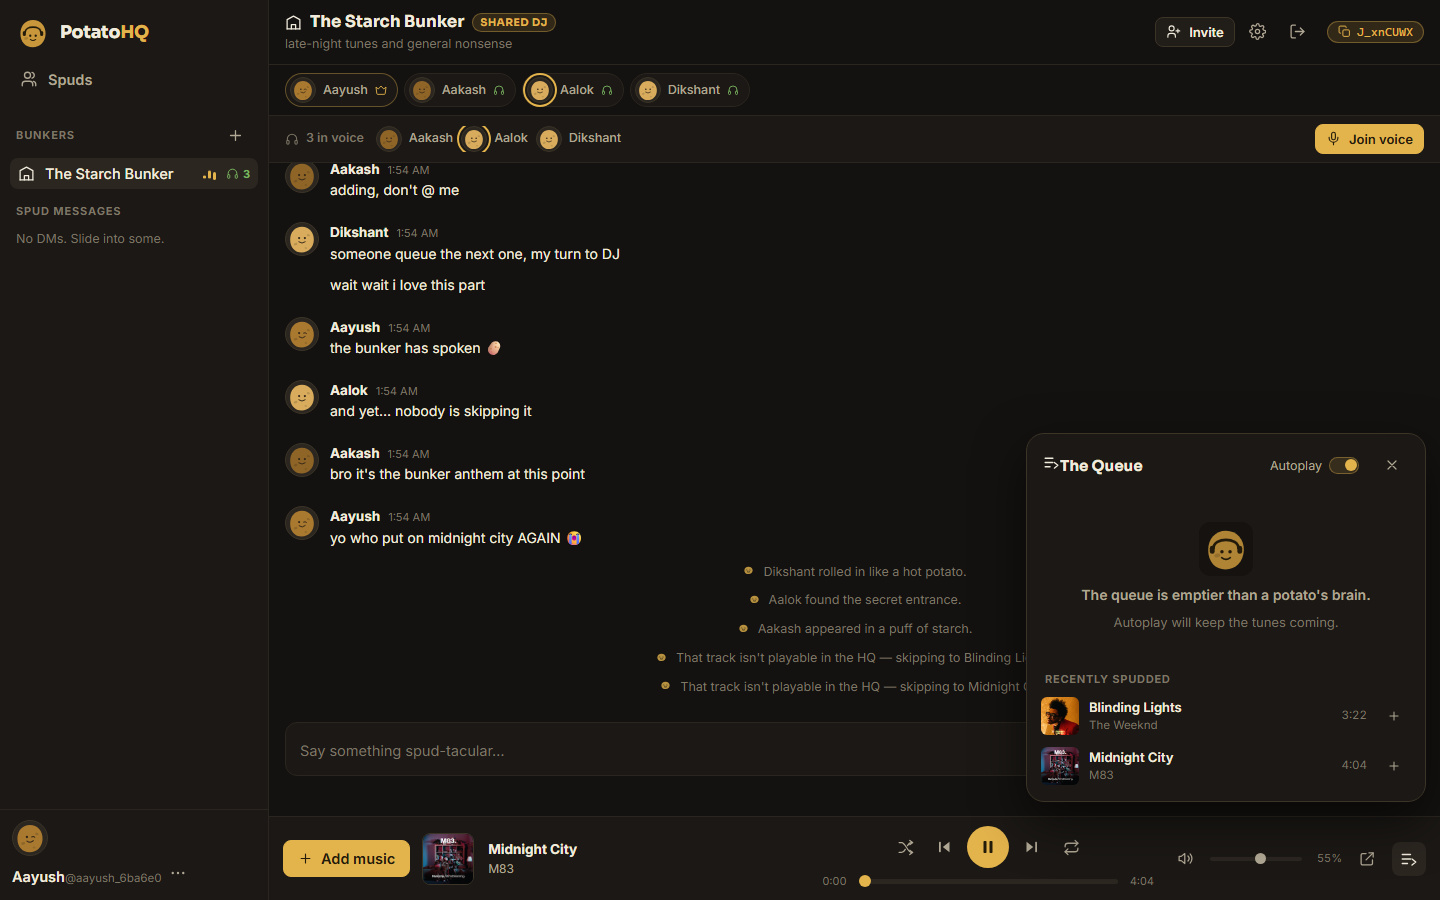
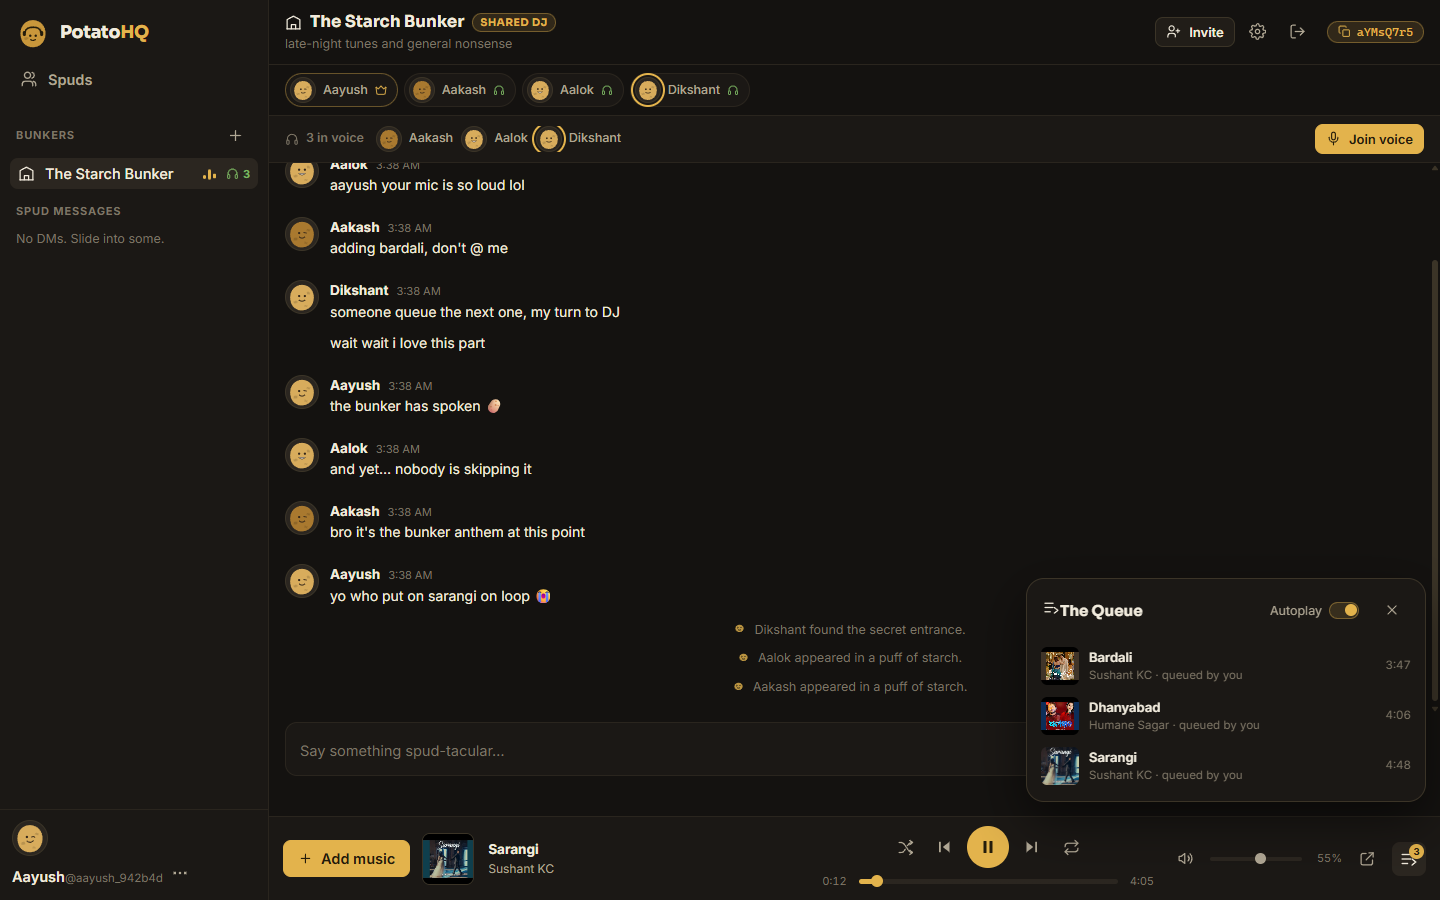
docs: refresh screenshots - fixed mobile layout + Nepali queue
New captures: the mobile player bar now stacks into two clean rows (no
overlapping controls), the room shows Sarangi - Sushant KC genuinely
playing with live progress, and the queue holds Bardali and Dhanyabad.
README caption updated to match.

diff --git a/README.md b/README.md
@@ -30,8 +30,9 @@ Everyone on the same Wi-Fi opens `http://<your-ip>:8420`, registers, and drops i
 | ![Queue](docs/screenshots/5-queue.png) | ![Friend's view](docs/screenshots/6-friend-view.png) |
 | ![Mobile](docs/screenshots/8-mobile-room.png) | ![Mobile drawer](docs/screenshots/9-mobile-drawer.png) |
 
-*Four friends — Aayush, Aakash, Aalok and Dikshant — hanging out in "The Starch Bunker":
-chat, voice with per-spud volume, and a live shared queue.*
+*Four friends — Aayush, Aakash, Aalok and Dikshant — hanging out in "The Starch Bunker".
+Now spudding: **Sarangi — Sushant KC**, with Bardali and Dhanyabad queued up; chat, voice with
+per-spud volume, and a live shared queue on desktop and mobile.*
 
 ## What's inside
 
